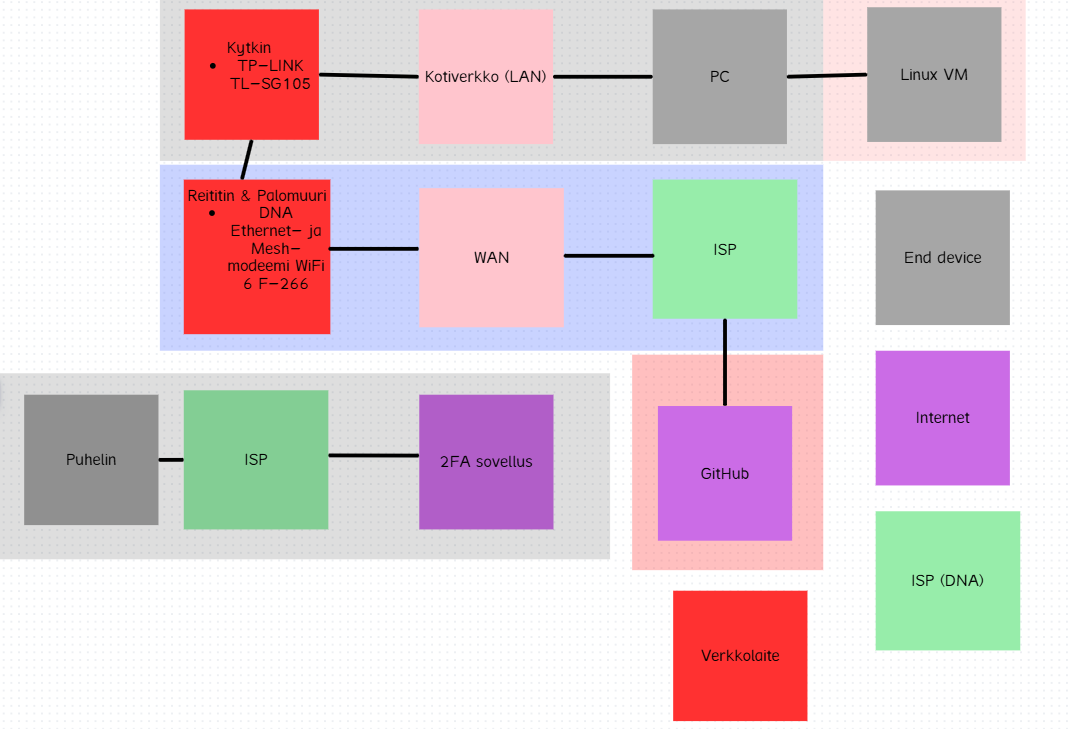
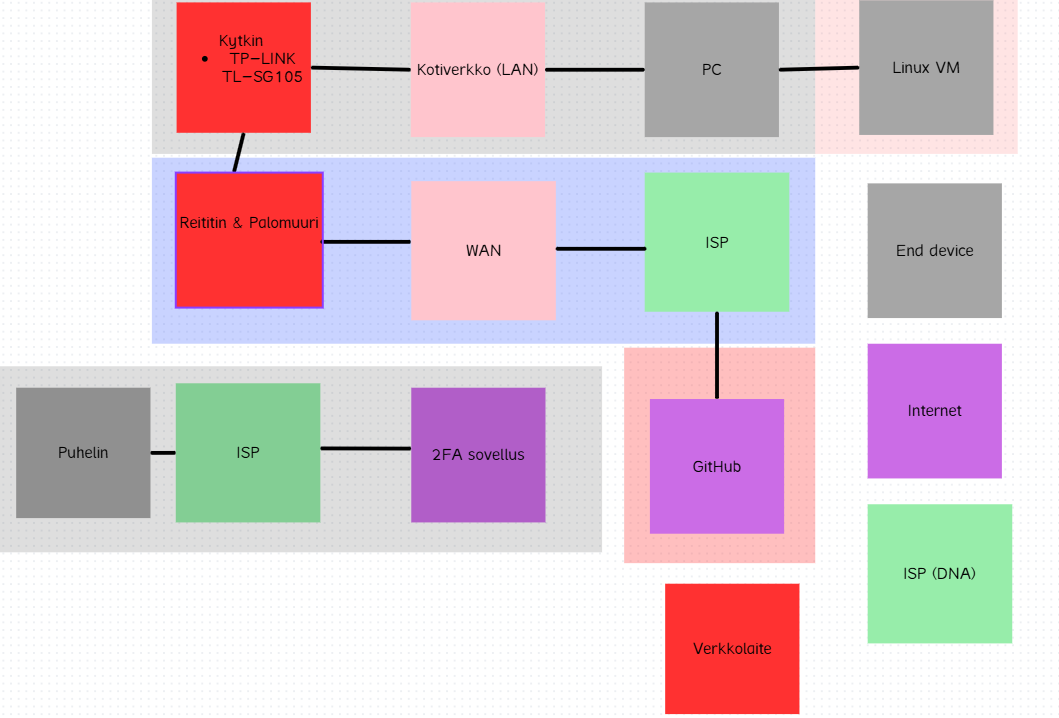
.

diff --git a/h1/h1.md b/h1/h1.md
@@ -16,7 +16,7 @@ Tiedot: kurssimateriaalit, omat muistiinpanot, repositoriot, harjoitusaineistot,
 
 Perusinfrana toimii:
 - Reititin & Wifi 
-  - DNA Ethernet- ja Mesh-modeemi WiFi 6 F-266 
+  - Reititin ja Wifi tulevat samasta boksista
 - Kytkin 
   - TP-LINK TL-SG105
 - Kurssiharjoituksiin käytän omaa pöytätietokonetta, jossa pääkäyttöjärjestelmänä on Windows 11. Sen sisällä ajan Virutalboxin kautta Kali Linux (2025.4) virtuaalitietokonetta. Kalin voi ottaa helposti pois netistä virtualboxin asetuksista testien ajaksi. Käytän omaa Samsung S24 puhelinta MFA:n hoitamiseen.
